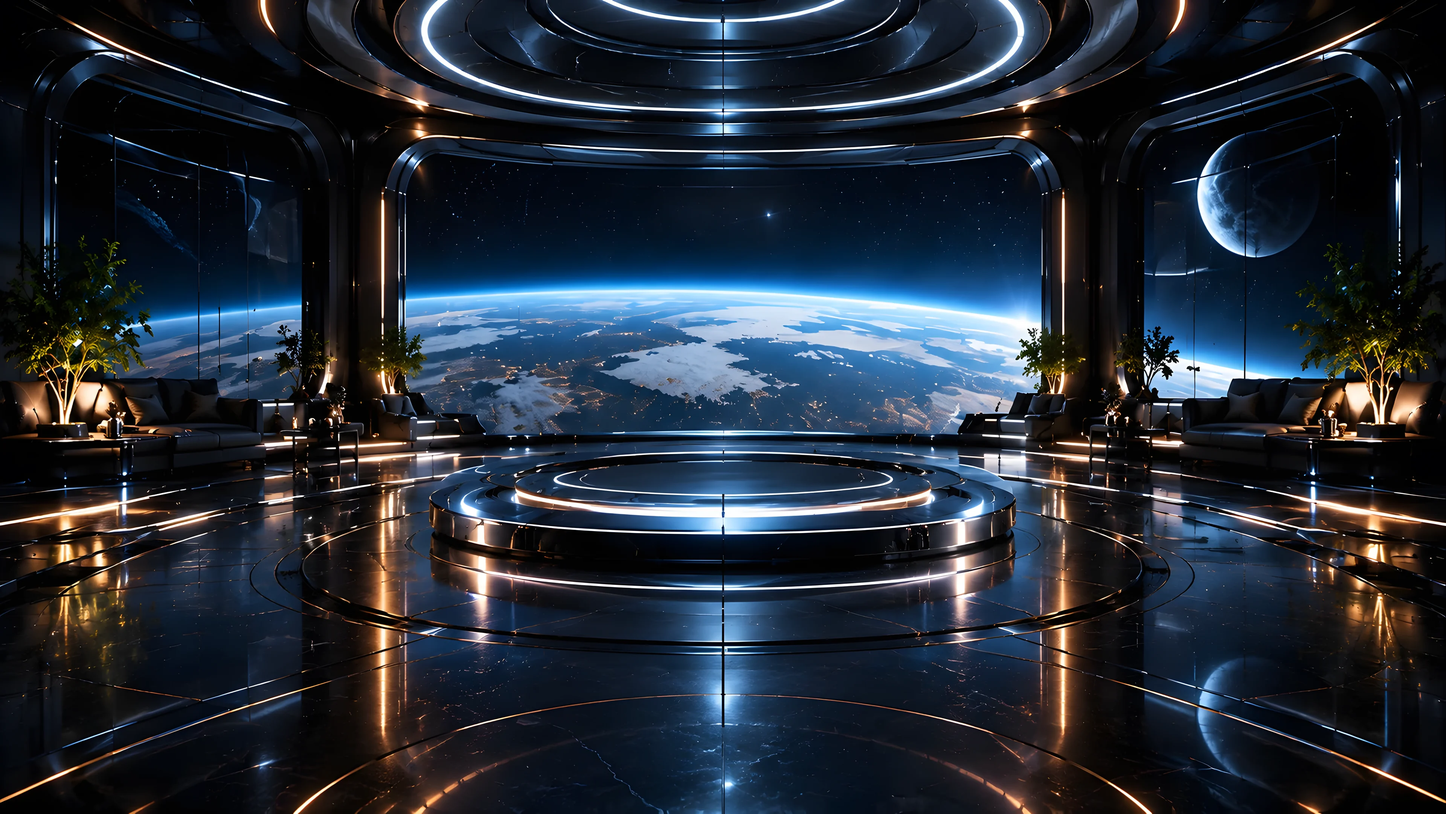
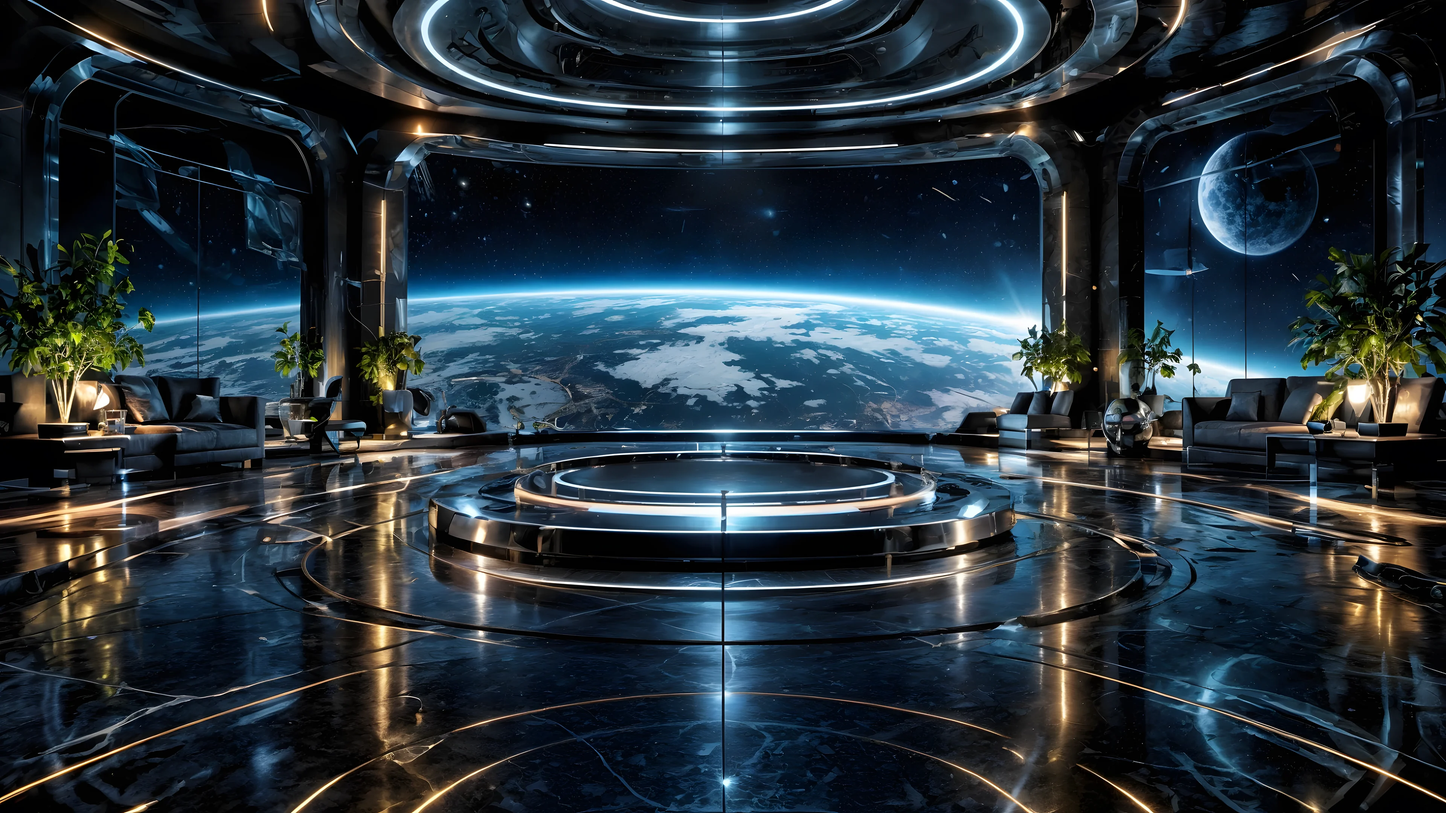
feat(dashboard): Brano's Krea versions of gold, earth and forest in 4K; brand without subtitle

diff --git a/frontend/rooms/rooms.js b/frontend/rooms/rooms.js
@@ -16,9 +16,9 @@ window.AURON_ROOMS = {
   noir: { name: 'Noir', src: 'rooms/noir.webp', w: 3840, h: 2161, ped: [0.500, 0.608, 0.43], zones: [
     ['sway', 0.00, 0.33, 0.12, 0.535], ['sway', 0.19, 0.39, 0.29, 0.515], ['sway', 0.71, 0.39, 0.81, 0.515], ['sway', 0.88, 0.33, 1.00, 0.535],
     ['glow', 0, 0, 1, 0.6], ['sheen', 0, 0.58, 1, 1]] },
-  gold: { name: 'Gold', src: 'rooms/gold.webp', w: 3840, h: 2161, ped: [0.500, 0.614, 0.395], zones: [
-    ['sway', 0.00, 0.36, 0.10, 0.545], ['sway', 0.20, 0.41, 0.30, 0.525], ['sway', 0.70, 0.41, 0.80, 0.525], ['sway', 0.89, 0.36, 1.00, 0.545],
-    ['flicker', 0, 0, 1, 0.62], ['sheen', 0, 0.6, 1, 1]] },
+  gold: { name: 'Gold', src: 'rooms/gold.webp', w: 3840, h: 2160, ped: [0.500, 0.600, 0.39], zones: [
+    ['sway', 0.0, 0.36, 0.08, 0.53], ['sway', 0.19, 0.40, 0.30, 0.52], ['sway', 0.70, 0.40, 0.80, 0.53], ['sway', 0.90, 0.36, 1.0, 0.52],
+    ['flicker', 0, 0, 1, 0.6], ['sheen', 0, 0.58, 1, 1]] },
   orbit: { name: 'Orbit', src: 'rooms/orbit.webp', w: 3840, h: 2160, ped: [0.500, 0.752, 0.463], zones: [
     ['stars', 0.17, 0.12, 0.83, 0.66], ['glow', 0, 0, 1, 1]] },
   alps: { name: 'Alpen bei Sonnenuntergang', src: 'rooms/alps.webp', w: 3840, h: 2161, ped: [0.500, 0.626, 0.40], zones: [
@@ -26,14 +26,14 @@ window.AURON_ROOMS = {
     ['water', 0.40, 0.47, 0.77, 0.53], ['sun', 0.64, 0.36, 0.74, 0.47],
     ['sway', 0.00, 0.29, 0.13, 0.50], ['sway', 0.19, 0.39, 0.28, 0.48], ['sway', 0.72, 0.39, 0.81, 0.48], ['sway', 0.94, 0.33, 1.00, 0.50],
     ['sheen', 0, 0.6, 1, 1]] },
-  earth: { name: 'Über der Erde', src: 'rooms/earth.webp', w: 3840, h: 2161, ped: [0.500, 0.606, 0.43], zones: [
-    ['stars', 0.28, 0.17, 0.72, 0.345], ['stars', 0.03, 0.12, 0.20, 0.30], ['stars', 0.79, 0.12, 0.97, 0.30],
-    ['city', 0.28, 0.36, 0.72, 0.53], ['glow', 0, 0, 1, 1],
-    ['sway', 0.00, 0.29, 0.10, 0.50], ['sway', 0.19, 0.40, 0.27, 0.49], ['sway', 0.70, 0.40, 0.78, 0.49], ['sway', 0.89, 0.29, 1.00, 0.50]] },
-  forest: { name: 'Wald mit Wasserfall', src: 'rooms/forest.webp', w: 3840, h: 2161, ped: [0.495, 0.611, 0.383], zones: [
-    ['fall', 0.528, 0.405, 0.58, 0.505], ['fall', 0.513, 0.365, 0.545, 0.40], ['fall', 0.172, 0.37, 0.192, 0.45],
-    ['clouds', 0.50, 0.455, 0.64, 0.53], ['water', 0.36, 0.52, 0.66, 0.575], ['clouds', 0.36, 0.0, 0.66, 0.075], ['clouds', 0.36, 0.15, 0.66, 0.21],
-    ['sun', 0.76, 0.2, 0.88, 0.36],
-    ['sway', 0.10, 0.08, 0.235, 0.45], ['sway', 0.80, 0.08, 0.905, 0.45], ['sway', 0.0, 0.33, 0.07, 0.53], ['sway', 0.935, 0.36, 1.0, 0.53],
-    ['sheen', 0, 0.6, 1, 1]] },
+  earth: { name: 'Über der Erde', src: 'rooms/earth.webp', w: 3840, h: 2160, ped: [0.500, 0.590, 0.40], zones: [
+    ['stars', 0.29, 0.20, 0.71, 0.35], ['stars', 0.08, 0.15, 0.20, 0.36], ['stars', 0.79, 0.13, 0.96, 0.33],
+    ['city', 0.29, 0.37, 0.71, 0.53], ['glow', 0, 0, 1, 1],
+    ['sway', 0.0, 0.28, 0.11, 0.47], ['sway', 0.18, 0.40, 0.22, 0.47], ['sway', 0.70, 0.39, 0.755, 0.47], ['sway', 0.77, 0.40, 0.81, 0.47], ['sway', 0.895, 0.30, 1.0, 0.48]] },
+  forest: { name: 'Wald mit Wasserfall', src: 'rooms/forest.webp', w: 3840, h: 2160, ped: [0.495, 0.613, 0.35], zones: [
+    ['fall', 0.53, 0.418, 0.573, 0.507], ['fall', 0.36, 0.34, 0.38, 0.40],
+    ['clouds', 0.45, 0.46, 0.68, 0.54], ['water', 0.28, 0.53, 0.72, 0.58],
+    ['water', 0.0, 0.70, 1.0, 1.0], ['water', 0.0, 0.62, 0.29, 0.70], ['water', 0.70, 0.62, 1.0, 0.70],
+    ['clouds', 0.37, 0.0, 0.66, 0.08], ['clouds', 0.37, 0.155, 0.66, 0.215], ['sun', 0.77, 0.24, 0.86, 0.34],
+    ['sway', 0.10, 0.12, 0.235, 0.45], ['sway', 0.78, 0.15, 0.905, 0.45], ['sway', 0.665, 0.39, 0.71, 0.52]] },
 };

diff --git a/frontend/index.html b/frontend/index.html
@@ -13,7 +13,7 @@
   <div class="backdrop" aria-hidden="true"></div>
 
   <header class="top">
-    <div class="brand"><span class="glyph"></span><div><b>AURON</b><small>AI trading &amp; social agent</small></div></div>
+    <div class="brand"><span class="glyph"></span><div><b>AURON</b></div></div>
     <div class="motto">DISCIPLINE <i>×</i> DATA <i>×</i> FREEDOM</div>
     <div class="top-right"><div class="room-pick"><button type="button" class="room-btn" id="roomBtn" title="Raum wählen" aria-label="Raum wählen">◐</button><div class="room-menu" id="roomMenu" hidden></div></div><div class="health" id="health" aria-label="System status"></div><div class="weather" id="weather" title="Wetter"></div><div class="when"><time class="clock" id="clock">--:--</time><small id="date"></small></div></div>
   </header>
